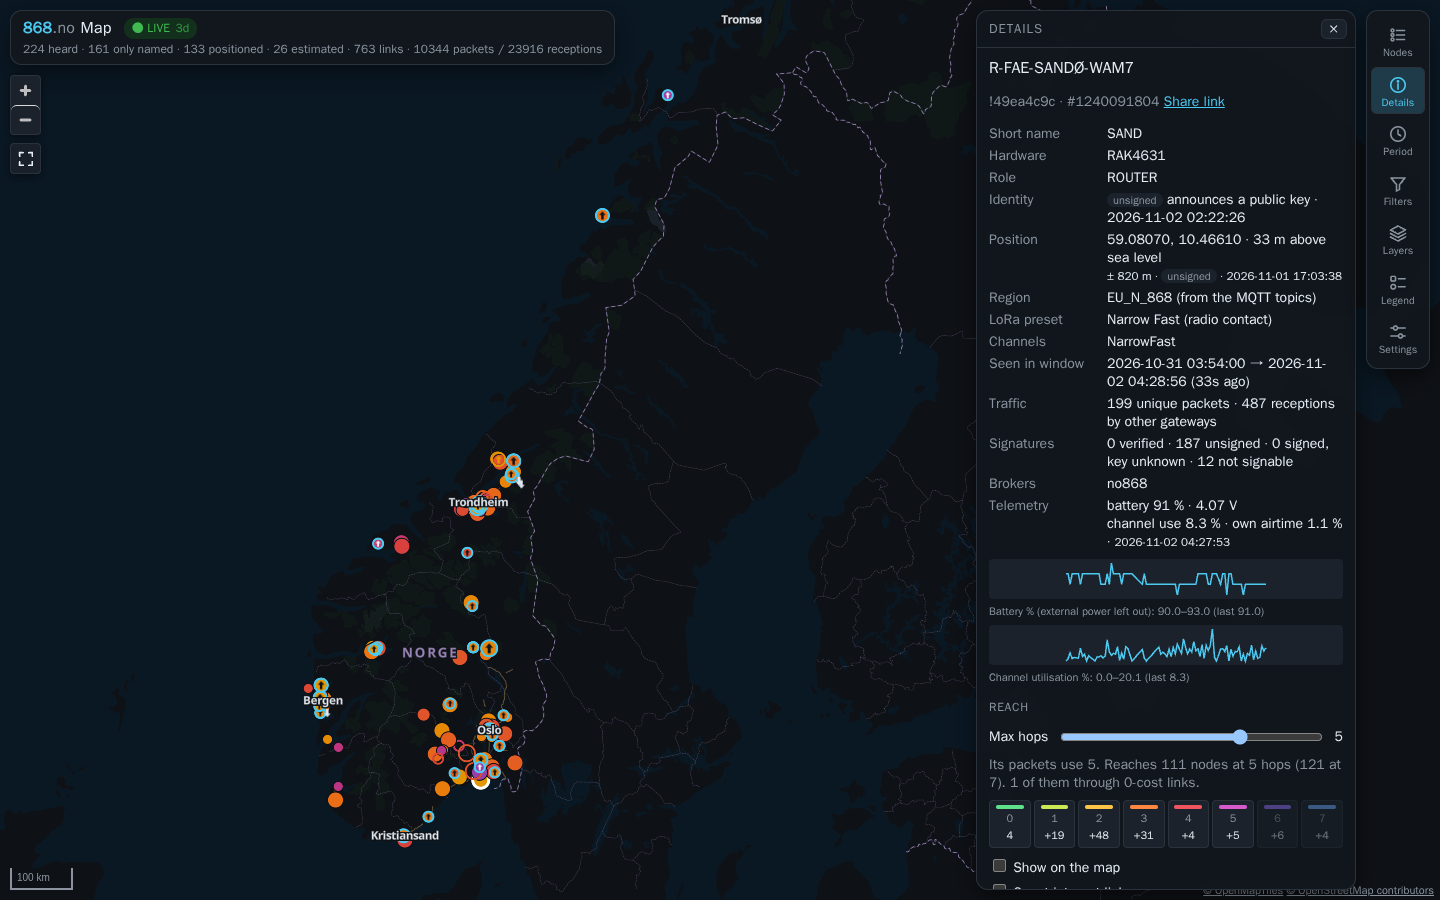
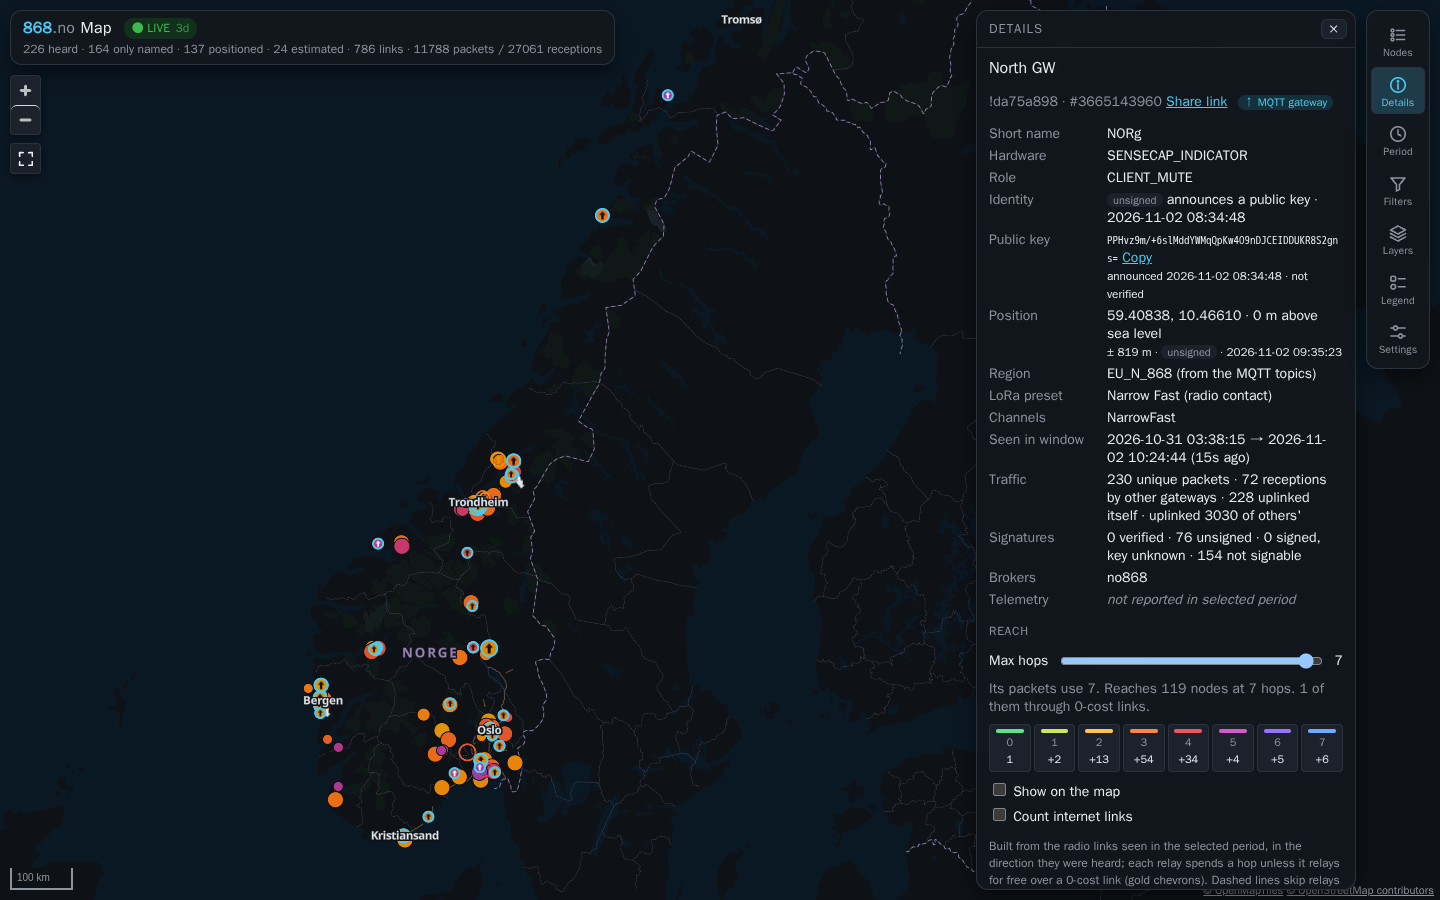
Show a node's public key in Details
A new endpoint, GET /api/v1/nodes/{id}/public-key, returns the key from
the node's newest retained NodeInfo and the trusted (first verified) key.
Rows still leave keys out: on every NodeInfo row they would add ~15 % to
a compressed window. The panel shows the key with a copy button, when it
was announced, whether it is trusted, and a warning when the trusted key
differs; opt-out nodes are skipped. The verified-NodeInfo partial index
widens to all NodeInfo rows so the latest-key lookup is an index scan.

diff --git a/frontend/src/api/schema.d.ts b/frontend/src/api/schema.d.ts
@@ -21,6 +21,23 @@ export interface paths {
         patch?: never;
         trace?: never;
     };
+    "/api/v1/nodes/{id}/public-key": {
+        parameters: {
+            query?: never;
+            header?: never;
+            path?: never;
+            cookie?: never;
+        };
+        /** A node's announced and trusted public keys from the retained log */
+        get: operations["node-public-key"];
+        put?: never;
+        post?: never;
+        delete?: never;
+        options?: never;
+        head?: never;
+        patch?: never;
+        trace?: never;
+    };
     "/api/v1/observations": {
         parameters: {
             query?: never;
@@ -225,6 +242,26 @@ export interface components {
         LiveStatus: {
             live: boolean;
             reason?: string;
+        };
+        NodeKeyBody: {
+            /**
+             * Format: uri
+             * @description A URL to the JSON Schema for this object.
+             * @example https://example.com/api/schemas/NodeKeyBody.json
+             */
+            readonly $schema?: string;
+            /** Format: date-time */
+            announced_at?: string;
+            /** @example !98644b01 */
+            node: string;
+            /** @description Base64 X25519 key from the node's newest retained NodeInfo that carried one */
+            public_key?: string;
+            /** @description Signature status of that NodeInfo */
+            signature?: string;
+            /** @description Key of the earliest retained verified NodeInfo (trust on first use): signatures are checked against it */
+            trusted_key?: string;
+            /** Format: date-time */
+            trusted_since?: string;
         };
         ObsHop: {
             /** Format: int32 */
@@ -453,6 +490,66 @@ export interface operations {
             };
             /** @description Error */
             default: {
+                headers: {
+                    [name: string]: unknown;
+                };
+                content: {
+                    "application/problem+json": components["schemas"]["ErrorModel"];
+                };
+            };
+        };
+    };
+    "node-public-key": {
+        parameters: {
+            query?: never;
+            header?: never;
+            path: {
+                /** @description Node id, !xxxxxxxx or decimal */
+                id: string;
+            };
+            cookie?: never;
+        };
+        requestBody?: never;
+        responses: {
+            /** @description OK */
+            200: {
+                headers: {
+                    "Cache-Control"?: string;
+                    [name: string]: unknown;
+                };
+                content: {
+                    "application/json": components["schemas"]["NodeKeyBody"];
+                };
+            };
+            /** @description Bad Request */
+            400: {
+                headers: {
+                    [name: string]: unknown;
+                };
+                content: {
+                    "application/problem+json": components["schemas"]["ErrorModel"];
+                };
+            };
+            /** @description Not Found */
+            404: {
+                headers: {
+                    [name: string]: unknown;
+                };
+                content: {
+                    "application/problem+json": components["schemas"]["ErrorModel"];
+                };
+            };
+            /** @description Unprocessable Entity */
+            422: {
+                headers: {
+                    [name: string]: unknown;
+                };
+                content: {
+                    "application/problem+json": components["schemas"]["ErrorModel"];
+                };
+            };
+            /** @description Internal Server Error */
+            500: {
                 headers: {
                     [name: string]: unknown;
                 };

diff --git a/frontend/src/features/panels.tsx b/frontend/src/features/panels.tsx
@@ -1,4 +1,6 @@
 import { useEffect, useMemo, useState } from 'react'
+import { ApiError, getJSON } from '../api/client'
+import type { NodeKey } from '../api/types'
 import type { Edge, Hearing, MeshNode, Radio, SnapshotView } from '../derive/views'
 import { useNodeDetail, usePacketLog, usePacketRoute, useReach } from '../state/data'
 import { nodeLink, useStore } from '../state/store'
@@ -186,6 +188,8 @@ export function NodePanel({ id, snapshot }: { id: string; snapshot: SnapshotView
             <><SigBadge s={d.identity.signature} /> {d.identity.has_public_key ? 'announces a public key' : 'no public key'} · {formatLocal(d.identity.observed_at)}</>
           )}
         </dd>
+        <dt>Public key</dt>
+        <dd>{d.mqtt_opt_out ? <span className="muted" title="Not shown for nodes that did not allow MQTT uplink">not shown</span> : <PublicKey key={d.id} id={d.id} />}</dd>
         <dt>Position</dt>
         <dd>
           {d.position ? (
@@ -616,6 +620,52 @@ function RelayingSection({ node, snapshot }: { node: MeshNode | undefined; snaps
  * whatever window or filters the viewer had. The phone's share sheet when
  * there is one, otherwise copied to the clipboard.
  */
+/** The node's public key from the whole retained log (keys identify a node, not a window). */
+function PublicKey({ id }: { id: string }) {
+  const [k, setK] = useState<NodeKey | 'none' | 'error' | null>(null)
+  const [copied, setCopied] = useState(false)
+  useEffect(() => {
+    const ctl = new AbortController()
+    getJSON<NodeKey>(`/api/v1/nodes/${encodeURIComponent(id)}/public-key`, undefined, ctl.signal)
+      .then(setK)
+      .catch((e: unknown) => {
+        if ((e as Error).name !== 'AbortError') setK(e instanceof ApiError && e.status === 404 ? 'none' : 'error')
+      })
+    return () => ctl.abort()
+  }, [id])
+  if (k === null) return <span className="muted">…</span>
+  if (k === 'none') return <span className="muted" title="No NodeInfo carrying a public key from this node is retained">none retained</span>
+  if (k === 'error') return <span className="muted">unavailable</span>
+  const key = k.public_key || k.trusted_key || ''
+  const copy = async () => {
+    try {
+      await navigator.clipboard.writeText(key)
+      setCopied(true)
+      setTimeout(() => setCopied(false), 2500)
+    } catch {
+      /* clipboard refused */
+    }
+  }
+  const differs = !!k.trusted_key && !!k.public_key && k.trusted_key !== k.public_key
+  return (
+    <>
+      <code className="pubkey">{key}</code>{' '}
+      <button className="linkish" onClick={() => void copy()} title="Copy the key (base64)">{copied ? 'Copied' : 'Copy'}</button>
+      <br />
+      <small>
+        {k.announced_at && <>announced {formatLocal(k.announced_at)}</>}
+        {k.trusted_key && !differs && k.trusted_since && <span title="The first verified NodeInfo with this key: signatures from this node are checked against it (trust on first use)"> · trusted since {formatLocal(k.trusted_since)}</span>}
+        {!k.trusted_key && <span title="No signed NodeInfo verified under this key is retained, so signatures from this node cannot be checked"> · not verified</span>}
+      </small>
+      {differs && (
+        <p className="opt-out-note" title="Signatures are checked against the trusted key, so packets signed with the new one are not verified until the trusted key's NodeInfo ages out of retention">
+          Differs from the key trusted since {formatLocal(k.trusted_since!)}: <code className="pubkey">{k.trusted_key}</code>
+        </p>
+      )}
+    </>
+  )
+}
+
 function ShareNode({ id, name }: { id: string; name: string }) {
   const [state, setState] = useState<'idle' | 'copied' | 'failed'>('idle')
   const share = async () => {

diff --git a/frontend/e2e/app.spec.ts b/frontend/e2e/app.spec.ts
@@ -125,6 +125,8 @@ test('default rolling 3-day window, presets and node details', async ({ page }) 
   await first.click()
   await expect(page.locator('.node-panel h2')).toBeVisible()
   await expect(page.locator('.node-panel')).toContainText('Seen in window')
+  // The public key comes from its own endpoint: a base64 key, or none retained.
+  await expect(page.locator('.node-panel dt:text-is("Public key") + dd')).toHaveText(/[A-Za-z0-9+/]{43}=|none retained|not shown/)
   await page.waitForTimeout(800) // fly-to animation
   await page.waitForFunction(() => {
     const m = (window as unknown as { __meshmap: { map: { loaded: () => boolean; areTilesLoaded: () => boolean } } }).__meshmap.map

diff --git a/frontend/src/index.css b/frontend/src/index.css
@@ -163,6 +163,7 @@ button[aria-pressed='true'], button[aria-selected='true'] { background: var(--pr
 .node-list, .links { list-style: none; margin: 0; padding: 0; }
 .node-row { display: grid; grid-template-columns: 14px 1fr auto auto; gap: 8px; width: 100%; text-align: left; border: none; background: none; padding: 4px 2px; align-items: center; }
 .node-row:hover { background: var(--panel2); }
+.pubkey { font: 11px ui-monospace, monospace; word-break: break-all; }
 .node-row .id { font: 11px ui-monospace, monospace; color: var(--muted); }
 .node-row .ct { font-size: 11px; color: var(--muted); }
 .links button { border: none; background: none; text-align: left; padding: 2px 0; }

diff --git a/frontend/src/api/types.ts b/frontend/src/api/types.ts
@@ -6,3 +6,4 @@ export type Retention = S['RetentionBody']
 export type LiveEvent = S['LiveEvent']
 export type ObsRow = S['ObsRow']
 export type ObservationsBody = S['ObservationsBody']
+export type NodeKey = S['NodeKeyBody']

diff --git a/backend/internal/api/handlers.go b/backend/internal/api/handlers.go
@@ -4,6 +4,7 @@ import (
 	"bufio"
 	"context"
 	"encoding/json"
+	"errors"
 	"fmt"
 	"io"
 	"net/http"
@@ -18,6 +19,7 @@ import (
 	"github.com/868-no/map/internal/obsrow"
 	"github.com/868-no/map/internal/protocol"
 	"github.com/868-no/map/internal/query"
+	"github.com/868-no/map/internal/storage"
 )
 
 // ---- capabilities ----
@@ -132,6 +134,53 @@ func (s *Server) retention(ctx context.Context, _ *struct{}) (*RetentionOutput, 
 		return nil, err
 	}
 	return &RetentionOutput{Body: out}, nil
+}
+
+// ---- a node's public key ----
+
+type NodeKeyInput struct {
+	ID string `path:"id" doc:"Node id, !xxxxxxxx or decimal" example:"!98644b01"`
+}
+
+type NodeKeyBody struct {
+	Node         string     `json:"node" example:"!98644b01"`
+	PublicKey    string     `json:"public_key,omitempty" doc:"Base64 X25519 key from the node's newest retained NodeInfo that carried one"`
+	AnnouncedAt  *time.Time `json:"announced_at,omitempty"`
+	Signature    string     `json:"signature,omitempty" doc:"Signature status of that NodeInfo"`
+	TrustedKey   string     `json:"trusted_key,omitempty" doc:"Key of the earliest retained verified NodeInfo (trust on first use): signatures are checked against it"`
+	TrustedSince *time.Time `json:"trusted_since,omitempty"`
+}
+
+type NodeKeyOutput struct {
+	CacheControl string `header:"Cache-Control"`
+	Body         NodeKeyBody
+}
+
+// nodeKey serves one node's public key. Keys are broadcast in the clear and
+// identify a node rather than a window, so this spans the retained log.
+func (s *Server) nodeKey(ctx context.Context, in *NodeKeyInput) (*NodeKeyOutput, error) {
+	n, ok := protocol.ParseNodeID(in.ID)
+	if !ok || !protocol.ValidNode(n) {
+		return nil, huma.Error400BadRequest("invalid node id")
+	}
+	out := NodeKeyBody{Node: protocol.NodeID(n)}
+	switch k, err := storage.LatestAnnouncedKey(ctx, s.Pool, n); {
+	case err == nil:
+		out.PublicKey, out.AnnouncedAt, out.Signature = k.PublicKey, &k.At, k.Signature
+	case !errors.Is(err, storage.ErrNotFound):
+		return nil, err
+	}
+	ids, err := storage.VerifiedIdentities(ctx, s.Pool, &n)
+	if err != nil {
+		return nil, err
+	}
+	if len(ids) > 0 {
+		out.TrustedKey, out.TrustedSince = ids[0].PublicKey, &ids[0].Since
+	}
+	if out.PublicKey == "" && out.TrustedKey == "" {
+		return nil, huma.Error404NotFound("no public key retained for this node")
+	}
+	return &NodeKeyOutput{CacheControl: "public, max-age=60", Body: out}, nil
 }
 
 // ---- raw observations (client-side derivation, D-031) ----

diff --git a/backend/internal/storage/storage.go b/backend/internal/storage/storage.go
@@ -344,5 +344,27 @@ func VerifiedIdentities(ctx context.Context, pool *pgxpool.Pool, node *uint32) (
 	return out, rows.Err()
 }
 
+// AnnouncedKey is a node's public key as its NodeInfo carried it.
+type AnnouncedKey struct {
+	PublicKey string // base64
+	At        time.Time
+	Signature string
+}
+
+// LatestAnnouncedKey returns the public key in the node's newest retained
+// NodeInfo that carried one, or ErrNotFound. Like VerifiedIdentities it
+// spans the whole retained log: a key identifies a node, not a window.
+func LatestAnnouncedKey(ctx context.Context, pool *pgxpool.Pool, node uint32) (AnnouncedKey, error) {
+	var k AnnouncedKey
+	err := pool.QueryRow(ctx, `SELECT decoded_metadata->'nodeinfo'->>'public_key', observed_at, signature_status
+	      FROM packet_log
+	      WHERE packet_type = 'nodeinfo' AND source_node_id = $1 AND decoded_metadata->'nodeinfo' ? 'public_key'
+	      ORDER BY id DESC LIMIT 1`, int64(node)).Scan(&k.PublicKey, &k.At, &k.Signature)
+	if errors.Is(err, pgx.ErrNoRows) {
+		return k, ErrNotFound
+	}
+	return k, err
+}
+
 // ErrNotFound is returned by single-row lookups with no result.
 var ErrNotFound = errors.New("not found")

diff --git a/backend/test/integration/integration_test.go b/backend/test/integration/integration_test.go
@@ -7,6 +7,7 @@ package integration
 
 import (
 	"context"
+	"errors"
 	"io"
 	"log/slog"
 	"math/rand/v2"
@@ -198,6 +199,21 @@ func TestPipelineDemoStream(t *testing.T) {
 	}
 	if rebuilt.Len() != ids.Len() {
 		t.Fatalf("rebuilt %d identities, live store had %d", rebuilt.Len(), ids.Len())
+	}
+	// Each verified node's newest announced key is served, and in the demo
+	// (no key changes) it is the trusted one.
+	trusted, err := storage.VerifiedIdentities(context.Background(), pool, nil)
+	if err != nil || len(trusted) == 0 {
+		t.Fatalf("verified identities: %v (%d)", err, len(trusted))
+	}
+	for _, id := range trusted {
+		k, err := storage.LatestAnnouncedKey(context.Background(), pool, id.Node)
+		if err != nil || k.PublicKey != id.PublicKey || k.At.Before(id.Since) {
+			t.Fatalf("node %08x: announced %+v (%v), trusted %s", id.Node, k, err, id.PublicKey)
+		}
+	}
+	if _, err := storage.LatestAnnouncedKey(context.Background(), pool, 0x7fff_fff1); !errors.Is(err, storage.ErrNotFound) {
+		t.Fatalf("unknown node: %v", err)
 	}
 	t.Logf("%d rows, %d multi-gateway logical packets, %d identities", n, multi, ids.Len())
 }

diff --git a/backend/internal/api/server.go b/backend/internal/api/server.go
@@ -174,5 +174,7 @@ func (s *Server) register(api huma.API) {
 		Summary: "Decoded observations of a window, paged, for deriving views in the browser", Tags: []string{"mesh"}, Errors: []int{400, 503},
 		Responses: map[string]*huma.Response{"200": {Description: "OK", Content: map[string]*huma.MediaType{
 			"application/json": {Schema: api.OpenAPI().Components.Schemas.Schema(reflect.TypeOf(ObservationsBody{}), true, "ObservationsBody")}}}}}, s.observations)
+	huma.Register(api, huma.Operation{OperationID: "node-public-key", Method: http.MethodGet, Path: "/api/v1/nodes/{id}/public-key",
+		Summary: "A node's announced and trusted public keys from the retained log", Tags: []string{"mesh"}, Errors: []int{400, 404}}, s.nodeKey)
 	s.registerStream(api)
 }

diff --git a/docs/design.md b/docs/design.md
@@ -132,7 +132,7 @@ The backend binary `meshmap` runs ingest and the API in one process (`meshmap se
 - **Partitions:** range-partitioned by calendar month (UTC) of `observed_at` (`packet_log_pYYYYMM`). `storage.EnsurePartitions` creates them at startup (last month to two months ahead), on each maintenance run, and from the insert path whenever a batch reaches a month the process has not seen, so imports and tests with old timestamps just work (D-056).
 - **Ids** come from the sequence `packet_log_id_seq` (PostgreSQL 16 has no identity columns on partitioned tables); the primary key is `(id, observed_at)`, because every unique index must include the partition key.
 - **One row per reception:** a unique index on `(observation_key, observed_at)`. Inserts COPY into a per-connection staging table, then `INSERT … ON CONFLICT DO NOTHING RETURNING id`, so a batch retried after a commit whose outcome was lost stores nothing twice and gets the ids of its first attempt (D-056).
-- **Indexes:** `(observed_at DESC, id DESC)` serves every `/observations` page and the boundary-month retention delete (D-038); a partial index on `(source_node_id, id) WHERE packet_type = 'nodeinfo' AND signature_status = 'verified'` serves the identity rebuild and is untouched by other inserts (D-083). Indexes that served only the retired server views, and the never-scanned BRIN index, were dropped (D-045, D-056); `init-schema` drops them idempotently. The schema version is in the table comment (`meshmap-schema:2`), not a migrations table; `init-schema` runs idempotent statements under an advisory lock and converts an unpartitioned schema-1 table in one transaction.
+- **Indexes:** `(observed_at DESC, id DESC)` serves every `/observations` page and the boundary-month retention delete (D-038); a partial index on `(source_node_id, id) WHERE packet_type = 'nodeinfo'` serves the identity rebuild and a node's latest public key, and is untouched by other inserts (D-083, D-089). Indexes that served only the retired server views, and the never-scanned BRIN index, were dropped (D-045, D-056); `init-schema` drops them idempotently. The schema version is in the table comment (`meshmap-schema:2`), not a migrations table; `init-schema` runs idempotent statements under an advisory lock and converts an unpartitioned schema-1 table in one transaction.
 - **Three forms of one packet, on purpose:** `envelope_bytes` re-decodes after decoder changes; `decoded_metadata` (minimal sanitised typed data incl. public keys and reception provenance) rebuilds `obs_row` after logic changes and feeds identity; `obs_row` is what pages serve (D-056).
 - **Stored row encodings:** `obs_row` is the row exactly as `/observations` serves it, minus the id, and `obs_row_version` the `obsrow.Version` it was built with. Pages read `obs_row` when its version is current and build the row from the other columns otherwise. At startup `serve` rebuilds missing or outdated encodings in the background, newest first, 2 000 rows per transaction with `FOR UPDATE SKIP LOCKED`. It is a copy of the row's own data, never derived state across rows, so a logic change needs only the version bump (D-046).
 - The table is append-mostly: only `decoded_metadata.also_via` and the stored encoding are ever updated.
@@ -174,6 +174,7 @@ Redis runs without persistence (`save ""`, no AOF), with a memory cap and LRU ev
 | `GET /api/v1/retention` | Configured cutoff, earliest and latest retained `observed_at` (operational metadata, not mesh state), server time. |
 | `GET /api/v1/observations` | The decoded rows of a window, paged (§4.2). |
 | `GET /api/v1/stream` | SSE for the rolling window only (§4.3). |
+| `GET /api/v1/nodes/{id}/public-key` | A node's public key from its newest retained NodeInfo carrying one, with its time and signature status, plus the trusted key (earliest retained verified NodeInfo, §2.4) and since when; 404 when none is retained. It spans the retained log, not a window: a key identifies a node. Fetched by the Details panel (D-089). |
 | `GET /api/openapi.yaml` / `.json` | The OpenAPI 3.1 document, generated from the serving code and committed as `docs/api-openapi.yaml`. |
 | `GET /health/live`, `/health/ready` | Liveness; readiness covers database, schema version, Redis, ingest writer and queue, broker states and the last retention run. |
 | `GET /metrics` | Prometheus metrics on `backend:9100` inside the Compose network; on the public port only with `PUBLIC_METRICS_ENABLED=true`. |
@@ -183,7 +184,7 @@ The huma docs UI is disabled because it loads JavaScript from a CDN.
 ### 4.2 Observations
 
 - `GET /api/v1/observations?start=&end=` or `?duration=`, with optional `since`/`until` that only narrow the window (clamped to it, never widening) and an opaque `cursor`. Pages are ordered by `(observed_at, id)`, which the time index serves directly however much older data is retained; the cursor (Unix microseconds plus id) only positions within the window (D-038). `limit` is at most 20 000 rows.
-- Each row carries compact keys and only public decoded RF fields: header fields, radio metadata, signature status, topic root (`tp`), the reception reason, and the port fields the views use (identity, position, device telemetry, NeighborInfo, traceroute, map report incl. region, preset and names). Never envelope bytes, payload bodies, public keys or full MQTT topics (D-031, D-044).
+- Each row carries compact keys and only public decoded RF fields: header fields, radio metadata, signature status, topic root (`tp`), the reception reason, and the port fields the views use (identity, position, device telemetry, NeighborInfo, traceroute, map report incl. region, preset and names). Never envelope bytes, payload bodies, public keys or full MQTT topics (D-031, D-044). Public keys are public, but 32 random bytes on every NodeInfo row would add about 15 % to a compressed window, so they are served per node instead (D-089).
 - Every response echoes the effective window (and whether it is rolling) and a `generation` = `d{decode_version}.r{obsrow.Version}.c{config_rev}`. A browser holding rows of another generation discards them and refetches; a key rotation or row-format change therefore costs one refetch (D-041, D-083).
 - Pages are written from the database cursor straight to the response in 64 KiB chunks, never collected in memory. The query starts before anything is written, so errors up to the first row get a proper status; a failure mid-page aborts the connection, so the browser sees a truncated body, never a well-formed partial page (D-057). `Cache-Control: no-store`.
 - A row whose stored metadata fails to decode is still sent without those fields, and counted and logged on the 1st, 2nd, 4th, 8th, … occurrence (D-083).
@@ -440,7 +441,7 @@ On a rolling window, each RF transmission attributable to a placed node is one e
 ### 7.8 Panels
 
 - **Nodes:** search by name or id (dimming non-matching nodes), positioned nodes and "Without position", each sorted by last heard with receptions by others shown (D-087). The search is cleared when the panel closes or another panel replaces it; picking a result opens Details and keeps the search (D-075).
-- **Details, node:** id with a share button (§7.11); names and their source; hardware and role; position with precision (± distance), altitude and source, or the estimate with its reasons, or the narrowed position; movement; first and last heard; packets, receptions by others and own uplinks; brokers; signatures; region, channels and preset (§6.13); device telemetry sparklines (battery 101 is external power, left out of the chart); MQTT tags ("⏫ MQTT gateway, every copy", downlink evidence); relaying (§6.9); reach (§6.8); Links in window; Uplinked by gateways; the packet log (§6.14). Missing values say "not reported in selected period"; a node absent from the window shows "no data in the selected window".
+- **Details, node:** id with a share button (§7.11); names and their source; hardware and role; public key (copyable, with when it was announced and whether it is the trusted key; a differing trusted key is shown with a warning; not shown for opt-out nodes) (D-089); position with precision (± distance), altitude and source, or the estimate with its reasons, or the narrowed position; movement; first and last heard; packets, receptions by others and own uplinks; brokers; signatures; region, channels and preset (§6.13); device telemetry sparklines (battery 101 is external power, left out of the chart); MQTT tags ("⏫ MQTT gateway, every copy", downlink evidence); relaying (§6.9); reach (§6.8); Links in window; Uplinked by gateways; the packet log (§6.14). Missing values say "not reported in selected period"; a node absent from the window shows "no data in the selected window".
 - **Links in window:** one row per neighbour: its name and → on the first line, ← on the line below, aligned in one grid across the list. → the neighbour heard this node, ← this node heard the neighbour, each with confidence and median SNR, or "no evidence". Radio and internet links to one neighbour are separate rows. Sorted by the better direction's confidence, then median SNR, then name, internet links last; the heading counts neighbours. Clicking a row opens the link (D-086).
 - **Uplinked by gateways:** gateways that heard the node, sorted the same way by the radio link from the node to the gateway, with a Link column showing that confidence (— when relayed only), and SNR and RSSI from direct receptions only, explained in column tooltips (D-086, D-087).
 - **Details, link:** both directions with evidence types and counts, confidence and reason, sample count, SNR/RSSI statistics, time range, 0-cost evidence, and names when known in the window. A selection remembers whether a radio or internet link was picked (D-055).
